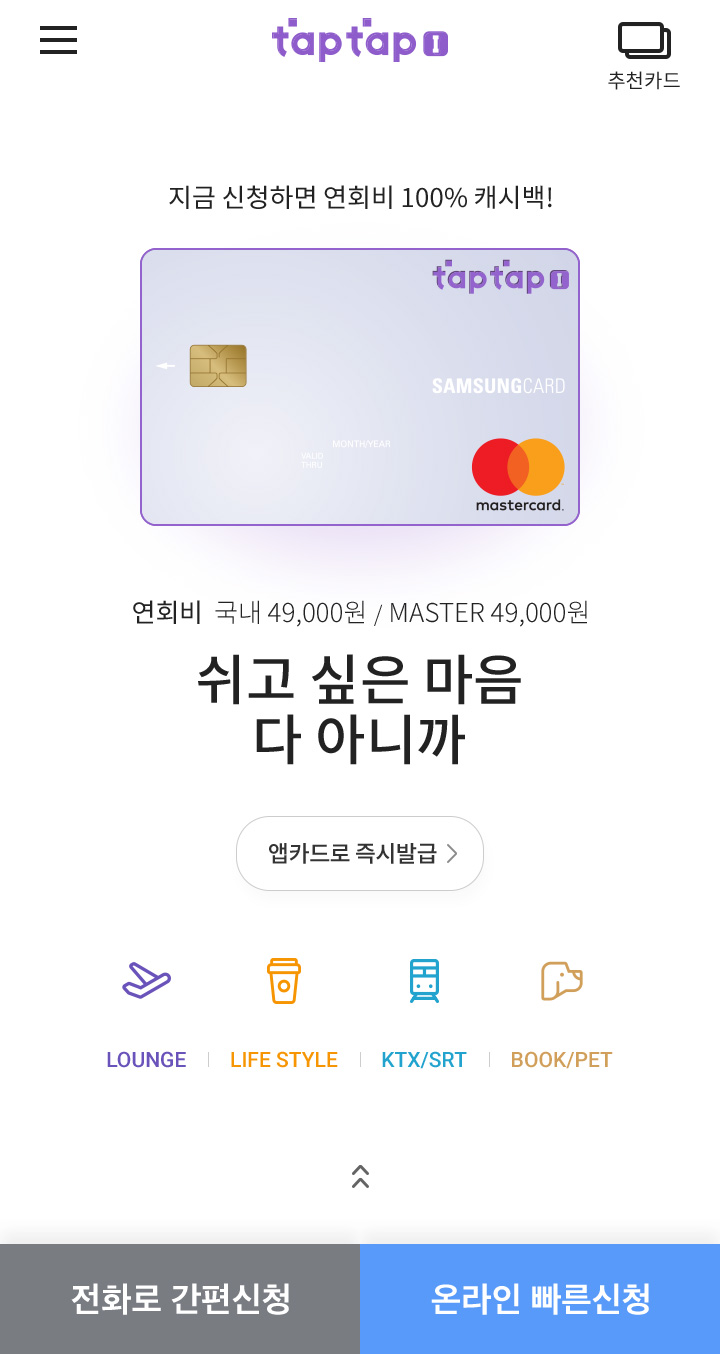
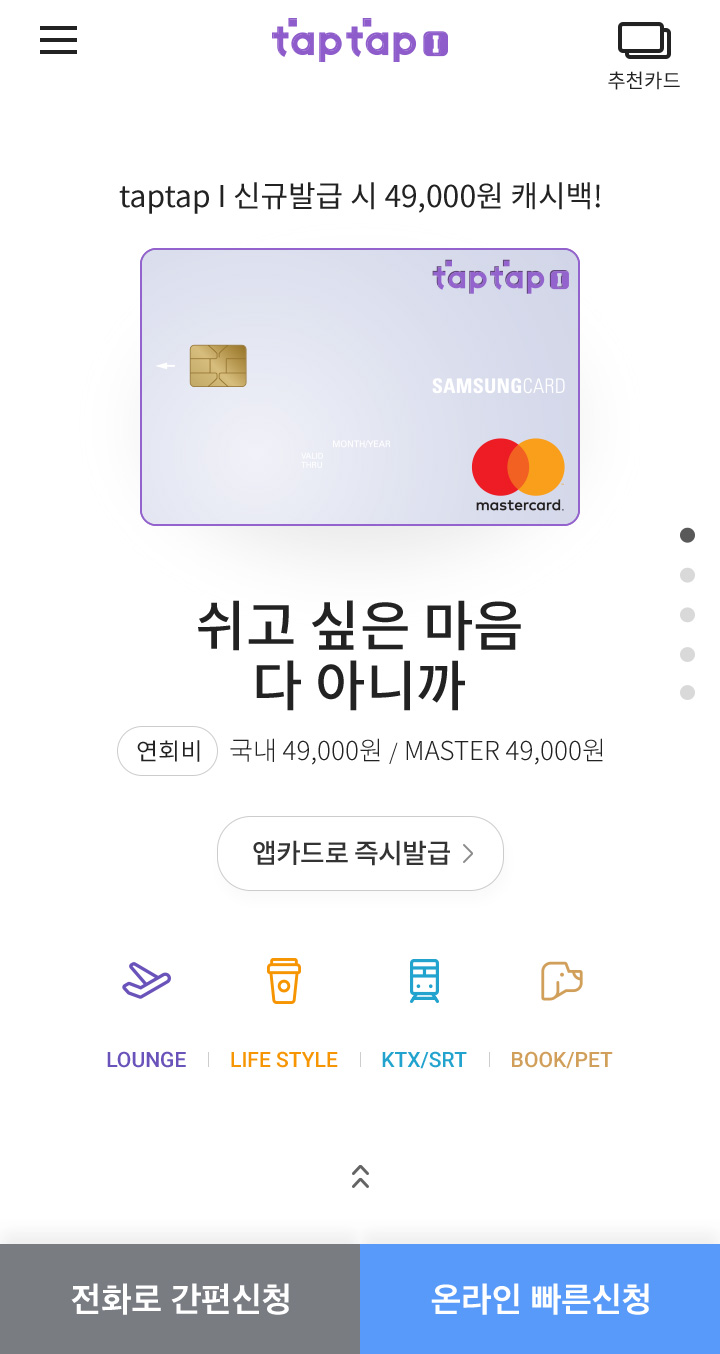
[typeA/C]  + 헤더 , 메인 수정

diff --git a/type_c/assets/scss/main.scss b/type_c/assets/scss/main.scss
@@ -18,14 +18,14 @@ body, html {width: 100%;height: 100%;overflow: hidden;}
 section{width:100%;height:100% }
 a{display: block;}
 /*.motion{@include transform-css-transition('0.3s , opacity 0.3s');}*/
-.event-txt{position:relative; width:percentage(383 / $w); margin: 0 auto; padding-top: 12%;z-index : 10;}
+.event-txt{position:relative; width:percentage(481 / $w); margin: 0 auto; padding-top: 12%;z-index : 10;}
 .card-con{position:relative;margin-top: -2%;
   .card{width:percentage(567 / $w);top:0;margin: 0 auto;}
 }
 .main-txt{ position: relative;
   .title{width:percentage(486 / $w);margin: -4% auto 0;}
-  .btn{width:percentage(248 / $w);margin: 7%auto 0;}
-  .benefit{width:percentage(506 / $w);margin: -1% auto 0;}
+  .btn{width:percentage(288 / $w);margin: 4%auto 0;}
+  .benefit{width:percentage(506 / $w);margin: -4% auto 0;}
 }
 .circle-shadow{position:absolute;width:100%;top:-6%;
   li{position: absolute; top:0;left:0;@include css-transition(opacity,0.3);@include opacity(0);width:percentage(720/$w);@include left-center(720);
@@ -214,7 +214,11 @@ a{display: block;}
 
 .test{position:absolute;top:0;left:0;width:100vw;height:100vh;@include opacity(0.7);}
 
-header{width:100%;}
+header{position:relative;width:100%;
+  a{position:absolute;top:0;display:inline-block;}
+  .self-link{width:80%;height:100%;}
+  .main-link{width:20%;height:100%;right:0;}
+}
 footer{position:fixed;width:100%;height:110/$w*100vw;bottom:0;clear:both;
   a{width:50%;display: block;
     &.btn-1{float:left;}

diff --git a/type_c/index.html b/type_c/index.html
@@ -16,15 +16,17 @@
 <body>
     <div class="wrap">
         <header>
-            <a href="../main/index_c.html">
+            <header>
                 <img src="assets/img/header.jpg">
-            </a>
+                <a class = "self-link" href="index.html"></a>
+                <a class = "main-link" href="../main/index_c.html"></a>
+            </header>
         </header>
         <div class="container">
             <div class="contents">
                 <div class="contents-holder">
                     <div class="event-txt ">
-                        <img src="assets/img/step1_txt1.jpg">
+                        <img src="assets/img/step1_txt1.png">
                     </div>
                     <div class="card-con ">
                         <div class="card">
@@ -220,10 +222,10 @@
 
         <div class="popup-con"></div>
     </div>
- <!--   <div class="test">
-        <img src="assets/img/step4.jpg">
+    <!--<div class="test">
+        <img src="assets/img/step1.jpg">
     </div>-->
-   <!-- <script type="text/javascript" src="assets/js/util/AnimationFrame.js"></script>-->
+
     <script type="text/javascript" src="assets/js/util/easing.js"></script>
     <script type="text/javascript" src="assets/js/util/swipeUtil.js"></script>
     <script type="text/javascript" src="assets/js/main.js"></script>

diff --git a/type_a/assets/scss/main.scss b/type_a/assets/scss/main.scss
@@ -216,7 +216,11 @@ $tW : 720;
   img {width:100vw;}
 }
 
-header{width:100%;position:fixed;z-index:900;}
+header{width:100%;position:fixed;z-index:900;
+  a{position:absolute;top:0;display:inline-block;}
+  .self-link{width:80%;height:100%;}
+  .main-link{width:20%;height:100%;right:0;}
+}
 
 footer{width:100%;position:fixed;bottom:0;z-index:900;
   .button {position:relative; width:50%; float:left;

diff --git a/type_a/index.html b/type_a/index.html
@@ -15,7 +15,9 @@
 <body>
     <div class="wrap">
         <header>
-            <a href="../main/index_a.html"><img src="assets/img/header.jpg"></a>
+            <img src="assets/img/header.jpg">
+            <a class = "self-link" href="index.html"></a>
+            <a class = "main-link" href="../main/index_a.html"></a>
         </header>
         
         <div class="container">

diff --git a/type_c/assets/js/main.js b/type_c/assets/js/main.js
@@ -65,7 +65,7 @@ var main = (function($) {
         })
 
         $('.hover').bind('touchstart', function(e) {
-            //e.preventDefault();
+            e.preventDefault();
             $(this).addClass('hover-effect');
         });
 
